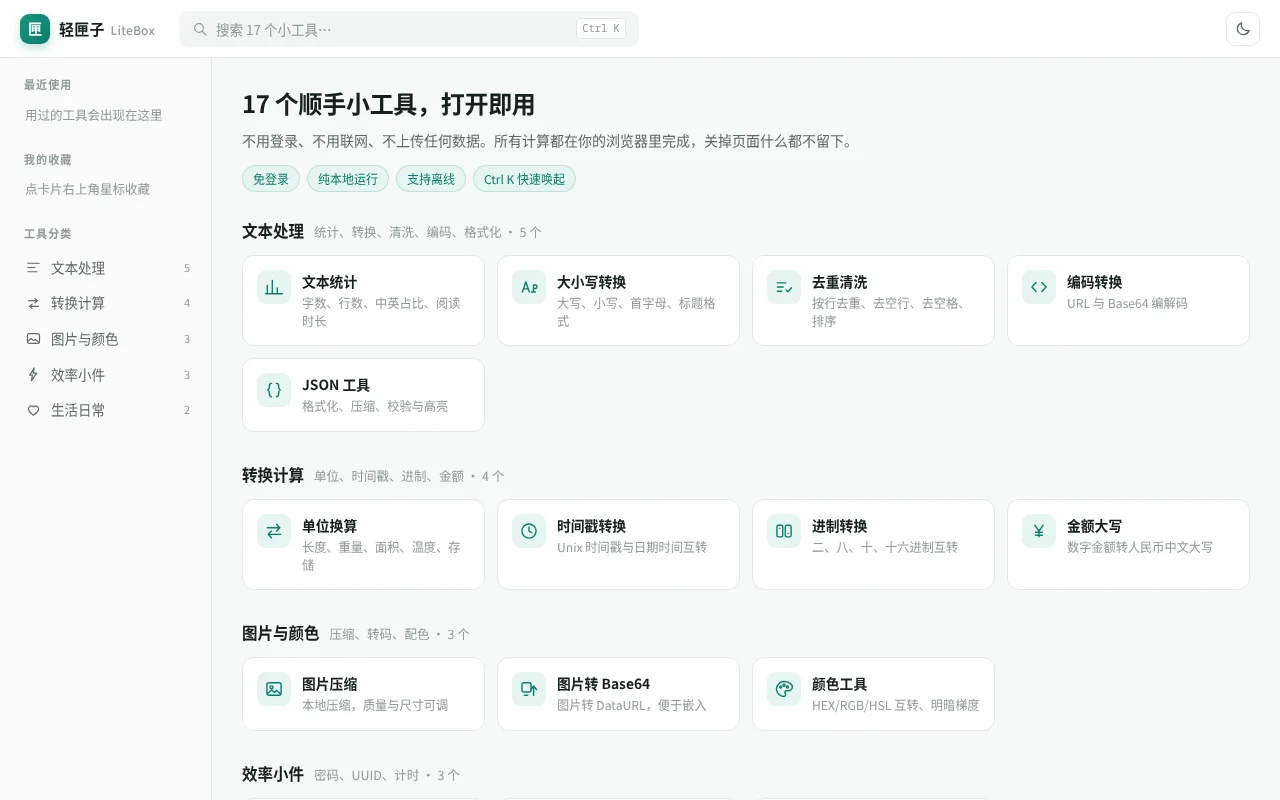
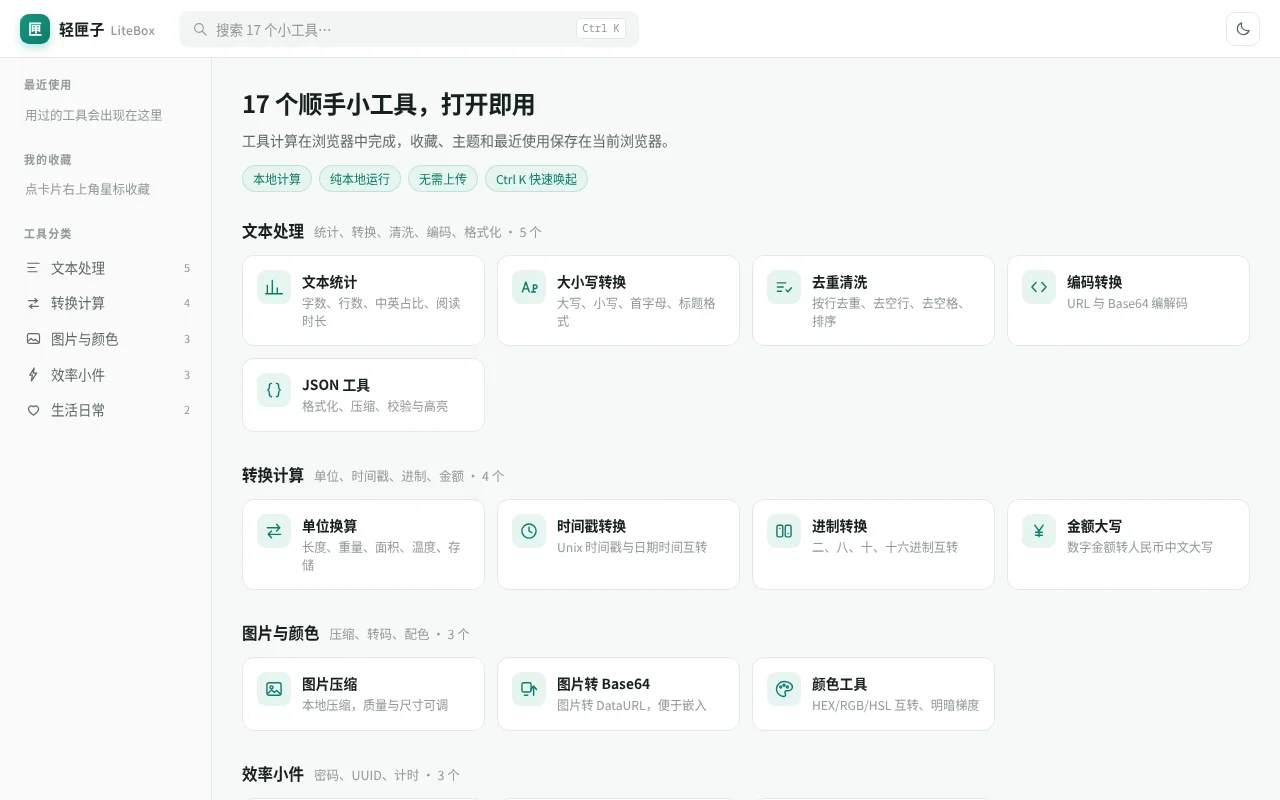
Clarify LiteBox local data behavior

Changed region(s): [[0.1875, 0.1562, 0.6562, 0.1875], [0.1875, 0.2188, 0.4688, 0.25]]

diff --git a/wb1024-c470-4c5aff44/showcase/preview.html b/wb1024-c470-4c5aff44/showcase/preview.html
@@ -523,10 +523,10 @@ function showHome() {
   const main = document.getElementById('main');
   let html = '<section class="hero">'
     + '<h1>17 个顺手小工具，打开即用</h1>'
-    + '<p>不用登录、不用联网、不上传任何数据。所有计算都在你的浏览器里完成，关掉页面什么都不留下。</p>'
+    + '<p>工具计算在浏览器中完成，收藏、主题和最近使用保存在当前浏览器。</p>'
     + '<div class="hero-chips">'
-    + '<span class="chip">免登录</span><span class="chip">纯本地运行</span>'
-    + '<span class="chip">支持离线</span><span class="chip">Ctrl K 快速唤起</span>'
+    + '<span class="chip">本地计算</span><span class="chip">纯本地运行</span>'
+    + '<span class="chip">无需上传</span><span class="chip">Ctrl K 快速唤起</span>'
     + '</div></section>';
 
   CATS.forEach(c => {

diff --git a/wb1024-c470-4c5aff44/src/app.js b/wb1024-c470-4c5aff44/src/app.js
@@ -156,10 +156,10 @@ function showHome() {
   const main = document.getElementById('main');
   let html = '<section class="hero">'
     + '<h1>17 个顺手小工具，打开即用</h1>'
-    + '<p>不用登录、不用联网、不上传任何数据。所有计算都在你的浏览器里完成，关掉页面什么都不留下。</p>'
+    + '<p>工具计算在浏览器中完成，收藏、主题和最近使用保存在当前浏览器。</p>'
     + '<div class="hero-chips">'
-    + '<span class="chip">免登录</span><span class="chip">纯本地运行</span>'
-    + '<span class="chip">支持离线</span><span class="chip">Ctrl K 快速唤起</span>'
+    + '<span class="chip">本地计算</span><span class="chip">纯本地运行</span>'
+    + '<span class="chip">无需上传</span><span class="chip">Ctrl K 快速唤起</span>'
     + '</div></section>';
 
   CATS.forEach(c => {
